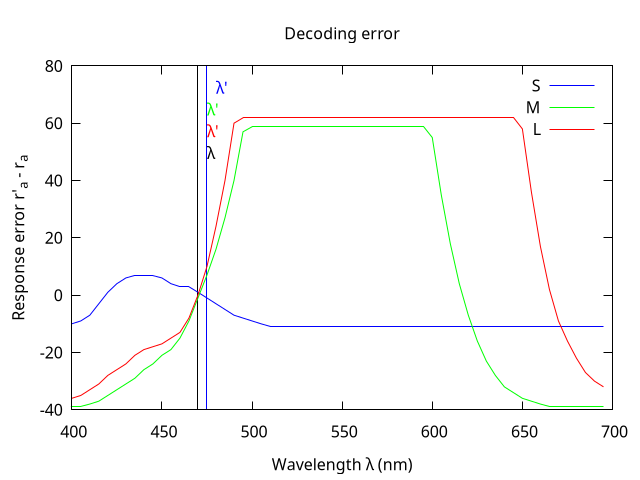
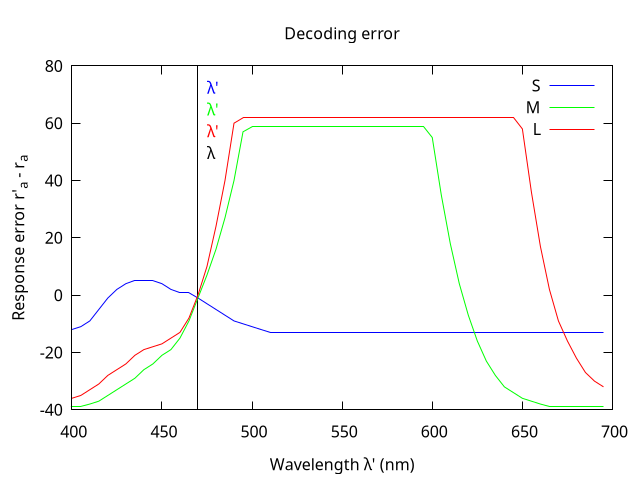
fixed typo

diff --git a/src/homework_4.rs b/src/homework_4.rs
@@ -427,7 +427,7 @@ achieve, even with a delta lambda of just 1"
         )
         .unwrap();
         writeln!(stdin, "set title \"Decoding error\"").unwrap();
-        writeln!(stdin, "set xlabel \"Wavelength {{/Symbol l}} (nm)\"").unwrap();
+        writeln!(stdin, "set xlabel \"Wavelength {{/Symbol l}}' (nm)\"").unwrap();
         writeln!(stdin, "set ylabel \"Response error r'_a - r_a\"").unwrap();
 
         for (i, (_, decoding_error)) in all_error_values.iter().enumerate() {